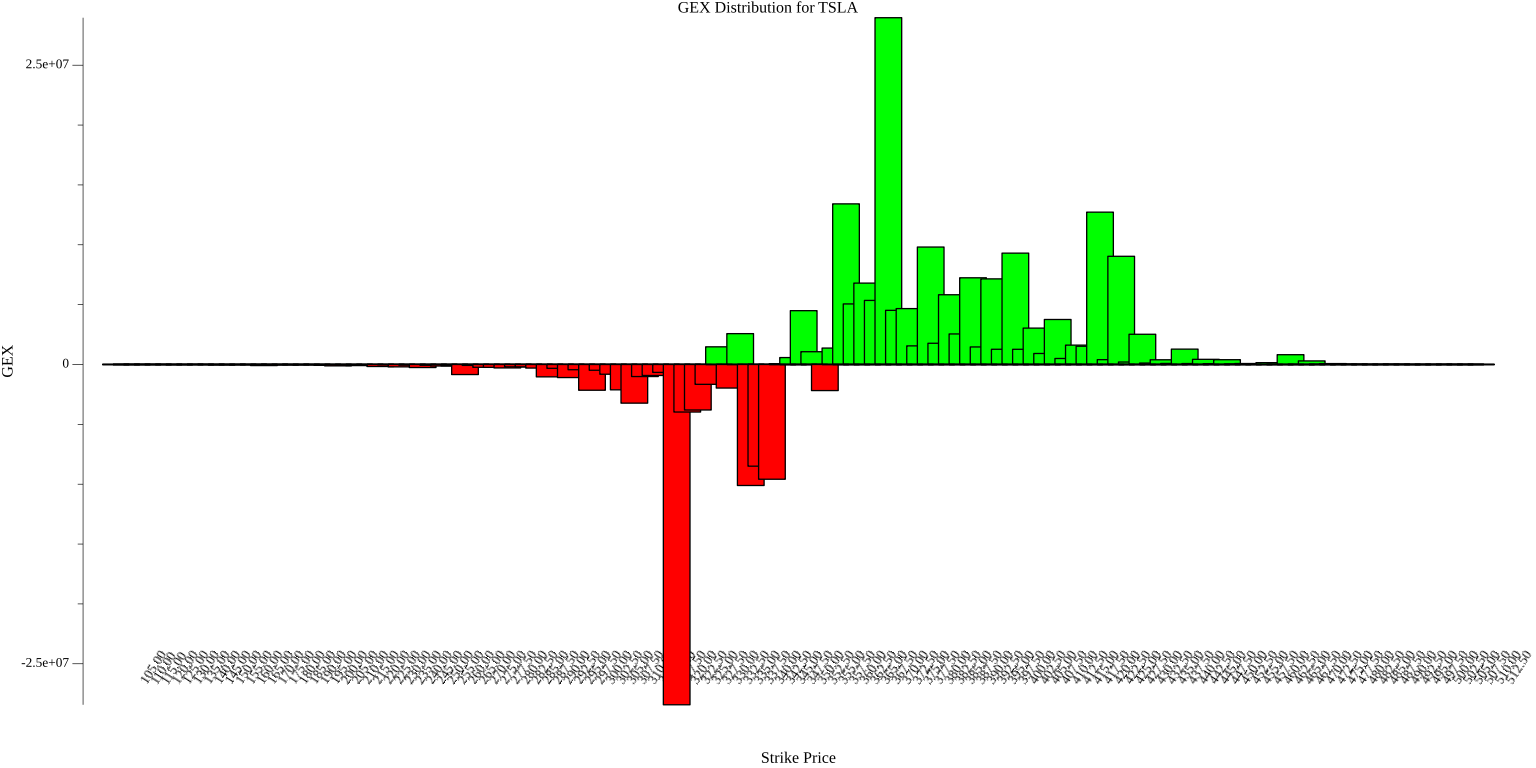
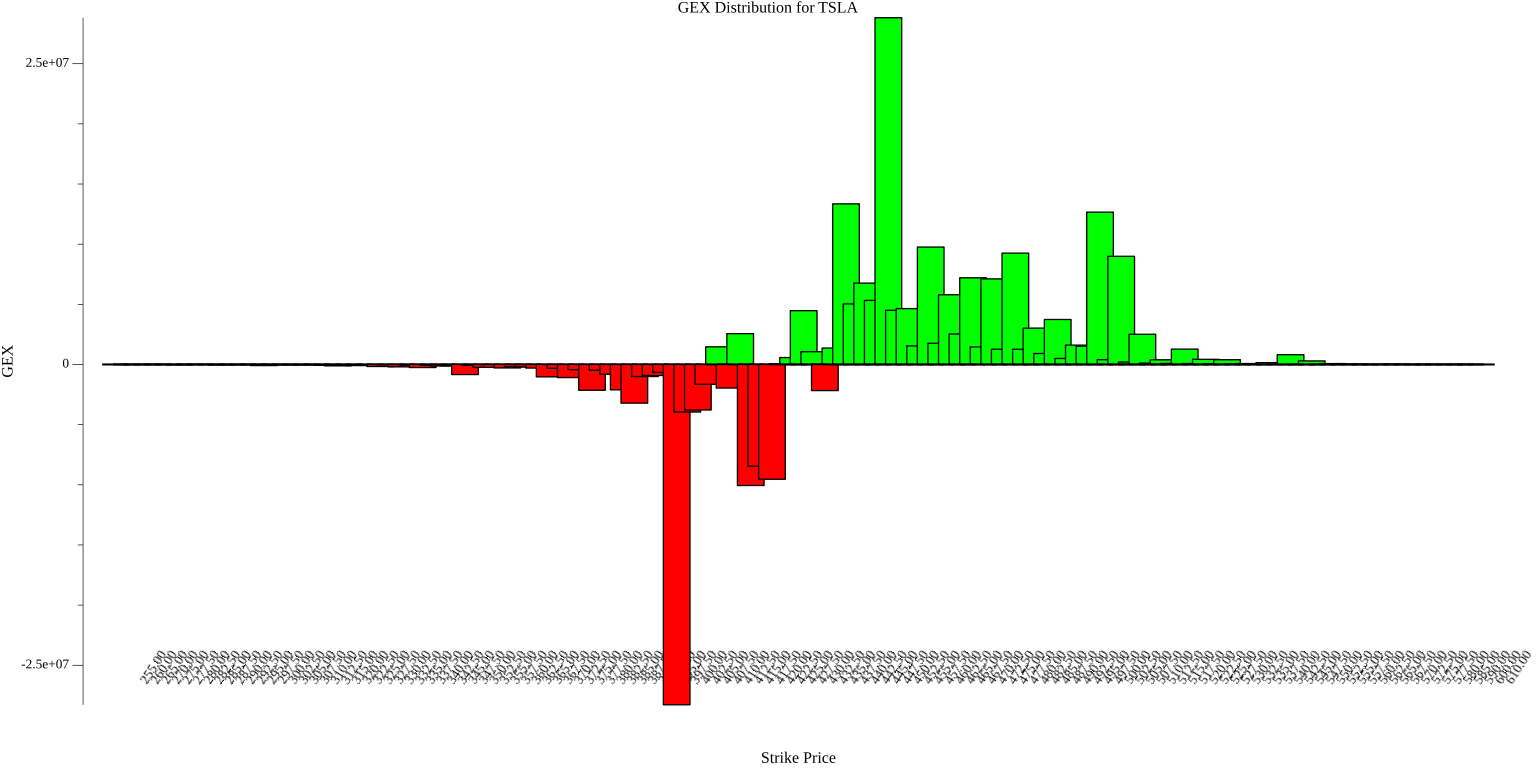
adding a table for gex..

Changed region(s): [[0.0938, 0.8438, 1.0, 0.9062], [0.0, 0.8438, 0.0625, 0.875], [0.0, 0.0625, 0.0625, 0.0938]]

diff --git a/internal/handler/gex/gex_static.go b/internal/handler/gex/gex_static.go
@@ -220,11 +220,12 @@ func CreateGEXPlot(gexByStrike map[float64]float64, symbol string, path string) 
 	// Split data into positive and negative values
 	for _, strike := range strikes {
 		gex := gexByStrike[strike]
-		labels = append(labels, fmt.Sprintf("%.2f", strike))
 		if gex >= 0 && gex > 100 {
+			labels = append(labels, fmt.Sprintf("%.2f", strike))
 			posPoints = append(posPoints, gex)
 			negPoints = append(negPoints, 0)
 		} else if gex < -100 {
+			labels = append(labels, fmt.Sprintf("%.2f", strike))
 			posPoints = append(posPoints, 0)
 			negPoints = append(negPoints, gex)
 		}
